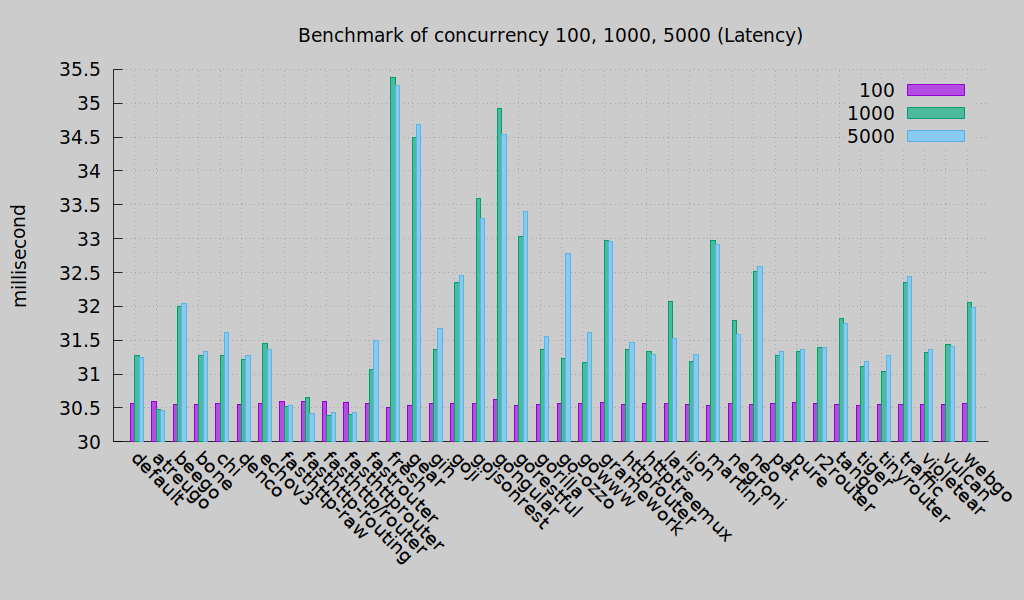
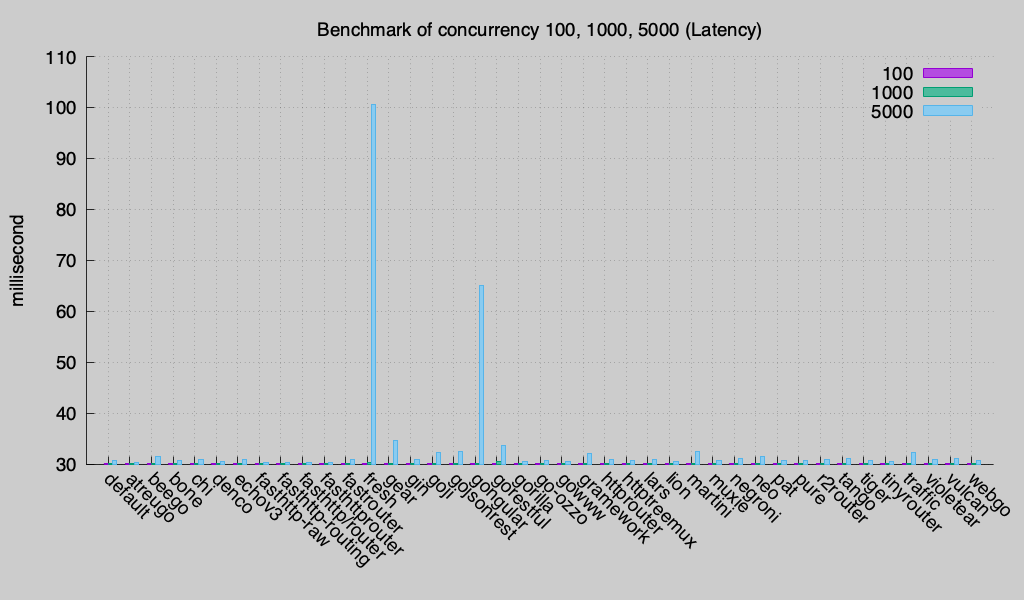
update latest benchmarks

diff --git a/README.md b/README.md
@@ -1,16 +1,15 @@
 # go-web-framework-benchmark
 This benchmark suite aims to compare the performance of Go web frameworks. It is inspired by [Go HTTP Router Benchmark](https://github.com/julienschmidt/go-http-routing-benchmark) but this benchmark suite is different with that. Go HTTP Router Benchmark suit aims to compare the performance of **routers** but this Benchmark suit aims to compare whole HTTP request processing.
 
-**Last Test Updated:** 2019-01-04
+**Last Test Updated:** 2019-07-27
 
 *test environment*
 
-* CPU:      Intel(R) Core(TM) i5-5200U CPU @ 2.20GHz
-* Memory:   16G
-* Go:       1.11.4
-* OS:       Kubuntu 18.10 / 4.18.0-13-generic
+* CPU:      Intel(R) Xeon(R) CPU E5-2630 v4 @ 2.20GHz (2 cpus, 10 physical cores, 40 logical cores)
+* Memory:   32G
+* Go:       go1.12.7 linux/amd64
+* OS:       CentOS Linux release 7.3.1611 (Core)
 
-(doesn't contain test results of neo because one error)
 
 ## Tested web frameworks
 
@@ -133,6 +132,10 @@ If we enable http pipelining, test result as below:
 ![concurrency pipelining(Round 2)](concurrency-pipeline.png)
 
 
+## cpu-bound case Test
+
+![cpu-bound (5000 concurrency)](cpubound_benchmark.png)
+
 ## Usage
 You should install this package first if you want to run this test.
 
@@ -171,6 +174,11 @@ It will  generate test results in processtime.csv and concurrency.csv. You can m
 ……
 web_frameworks=( "default" "ace" "beego" "bone" "denco" "echov1" "echov2standard" "echov2fasthttp" "fasthttp-raw" "fasthttprouter" "fasthttp-routing" "gin" "gocraftWeb" "goji" "gojiv2" "gojsonrest" "gorestful" "gorilla" "httprouter" "httptreemux" "lars" "lion" "macaron" "martini" "pat" "possum" "r2router" "tango" "tiger" "traffic" "violetear" "vulcan")
 ……
+```
+* If you want to test all cases, you can run:
+
+```
+./test-all.sh
 ```
 
 ## Plot
